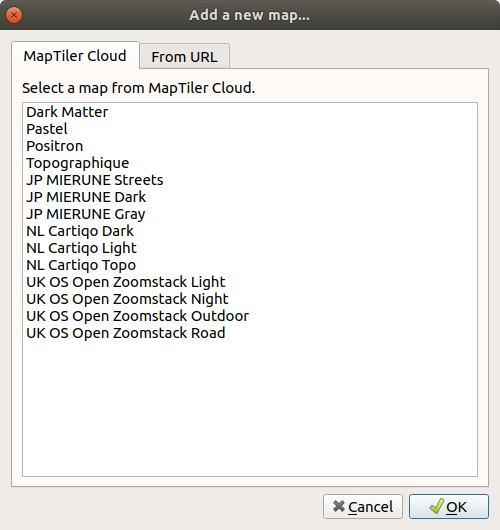
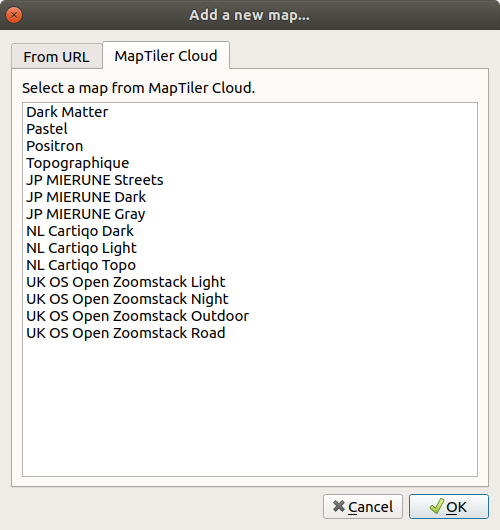
Update READme

Changed region(s): [[0.03, 0.0604, 0.45, 0.1509]]

diff --git a/README.md b/README.md
@@ -1,3 +1,5 @@
+<img src=https://user-images.githubusercontent.com/19833762/85034825-c65bef00-b182-11ea-8be6-36195165de3f.png>
+
 # QGIS MapTiler Plugin
 
 Simply add global base maps to QGIS. This plugin adds OpenStreetMap data with OpenMapTiles project. Maps for this plugin are available from the MapTiler Cloud. Customize look and feel of maps or import GL JSON styles of TileJSON.
@@ -36,6 +38,15 @@ Then MapTiler should be added to your QGIS Browser.
 
 ## Feature & Usage
 
+### Load a map in Mapbox GL JSON format
+
+You can add your own map from the tab `From URL`. Add the name of your map and URL to JSON.
+
+For **vector tiles** you can add either URL to style.json or TileJSON. Note that if you add URL to TileJSON you will get only tiles data with basic QGIS styling. For **raster tiles** you have to add URL to TileJSON.
+
+<img src='imgs/readme_07.png'>
+
+
 ### Add background maps to a project
 
 MapTiler plugin provides several preset maps. Some of them are visible from QGIS Browser.
@@ -50,6 +61,7 @@ More maps are available after you click on `Add a new map...` from MapTiler plug
    
 <img src='imgs/readme_06.png'>
    
+
 ### Vector and raster tiles
 
 MapTiler plugin supports loading maps via both vector and raster tiles.  You can choose from the contextual menu of the map and clicking either on `Add as Raster` or `Add as Vector`.
@@ -61,14 +73,6 @@ Vector tiles support requires QGIS 3.13 or higher.
 You can read about the difference between vector and raster tiles here [https://www.maptiler.com/news/2019/02/what-are-vector-tiles-and-why-you-should-care/](https://www.maptiler.com/news/2019/02/what-are-vector-tiles-and-why-you-should-care/?utm_source=github.com&utm_medium=referral&utm_campaign=qgis-plugin)
 
  
-### Load a map in Mapbox GL JSON format
-
-You can also add your own map from the tab `From URL`. Add the name of your map and URL to JSON.
-
-For **vector tiles** you can add either URL to style.json or TileJSON. Note that if you add URL to TileJSON you will get only tiles data with basic QGIS styling. For **raster tiles** you have to add URL to TileJSON.
-
-<img src='imgs/readme_06.png'>
-
 ### Customize quickly the look&feel of the base maps 
 
 There is a possibility to simply adjust the default base maps in [Customize tool](https://cloud.maptiler.com/customize/?utm_source=github.com&utm_medium=referral&utm_campaign=qgis-plugin) - via a context menu on right-click in QGIS.
